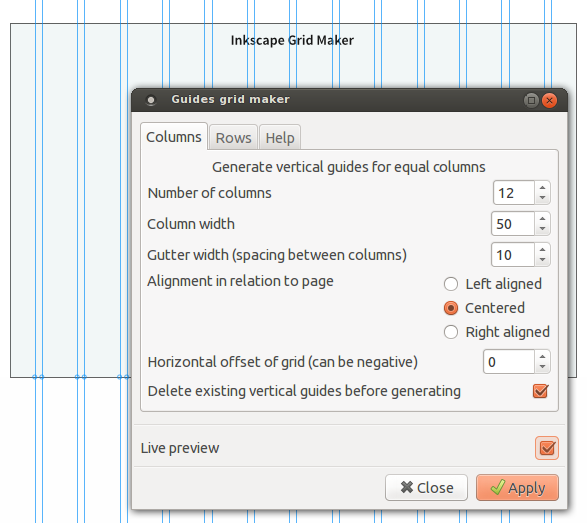
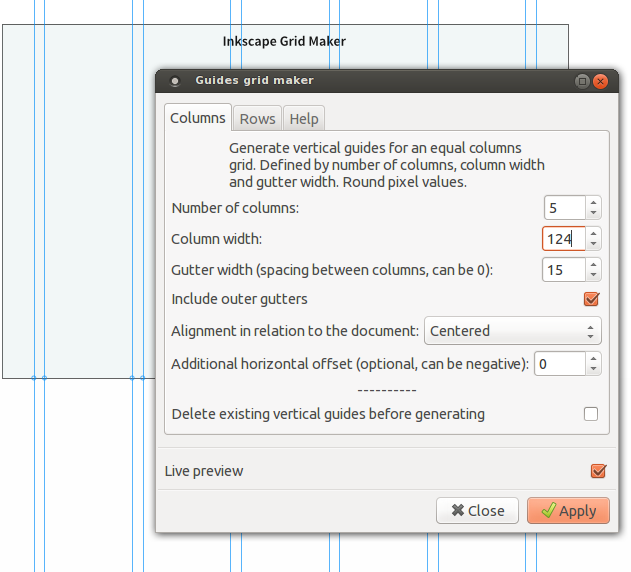
new screenshots, readme changes

Changed region(s): [[0.0, 0.0, 1.0, 1.0]]

diff --git a/README.md b/README.md
@@ -1,11 +1,11 @@
 Inkscape grid maker
 ===================
 
-This [Inkscape](http://inkscape.org/) extension (plugin) will generate a grid (guides) with **equal width columns and gutters**, or rows and gutters.
+This [Inkscape](http://inkscape.org/) extension (plugin) will generate a grid (guides actually) with **equal width columns (or rows) and gutters**.
 
-> In graphic design, a **grid** is a structure (usually two-dimensional) made up of a series of intersecting straight (vertical, horizontal, and angular) or curved guide lines used to structure content. The grid serves as an armature on which a designer can organize graphic elements (images, glyphs, paragraphs) in a rational, easy to absorb manner. - [Wikipedia](http://en.wikipedia.org/wiki/Grid_%28graphic_design%29)
+> In graphic design, a **grid** is a structure (usually two-dimensional) made up of a series of intersecting straight (vertical, horizontal, and angular) or curved guide lines used to structure content. The grid serves as an armature on which a designer can organize graphic elements (images, glyphs, paragraphs) in a rational, easy to absorb manner. - from [Wikipedia](http://en.wikipedia.org/wiki/Grid_%28graphic_design%29)
 
-This extension was conceived as a tool for grids in designing websites in Inkscape. The guides are therefore positioned using pixels, and use rounded numbers (they are set on the pixel). Not tested with other units.
+This extension was originally conceived as a tool for grids in designing websites in Inkscape. The guides are therefore positioned using pixels, and use rounded numbers (they are set on the pixel). Not tested with other units.
 
 It is an alternative to positioning guides manually, or positioning paths and converting them to guides, or using the Grids in the Document Properties.
 
